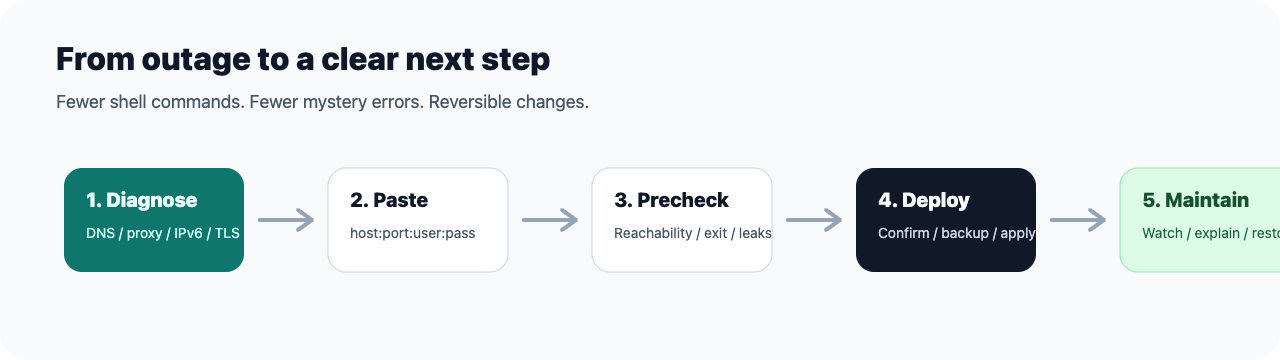
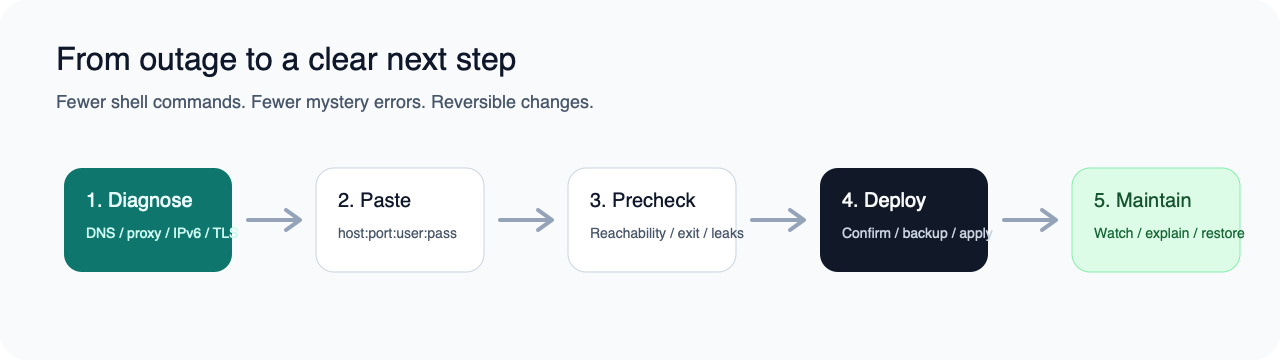
Polish launch trust and GitHub growth surface

diff --git a/tests/test_install_scripts_user_experience.py b/tests/test_install_scripts_user_experience.py
@@ -43,6 +43,8 @@ def test_mac_installer_finished_banner_mentions_app_path_uninstall_and_qa():
     assert "开始使用这台 Mac 上网" in text
     assert "当前出口 IP" in text
     assert "ss://" in text and "vmess://" in text
+    assert "requires macOS 13 or newer" in text
+    assert "--connect-timeout 10 --max-time 600 --retry 2" in text
     # Original safety assertions are still required.
     assert "Will not read or send proxy passwords" in text
 
@@ -66,7 +68,9 @@ def test_chinese_readme_first_screen_states_paste_proxy_and_qa_warning():
     head = text.split("\n", 80)[:80]
     head_text = "\n".join(head)
     # First screen promise (KIMI audit §1.5 requirement).
-    assert "粘贴" in head_text and "让 Mac 安全上网" in head_text
+    assert "粘贴" in head_text and "已有的代理" in head_text
+    assert "当前出口 IP" in head_text
+    assert "macOS 13" in head_text
     # Loud QA warning block.
     assert "未签名" in head_text or "未公证" in head_text
     assert "仍要打开" in head_text

diff --git a/tests/test_open_source_readiness.py b/tests/test_open_source_readiness.py
@@ -79,6 +79,7 @@ def test_github_readme_has_bilingual_visual_assets_and_metadata():
         "docs/github/STAR_GUIDE.md",
         "docs/github/SCREENSHOTS.md",
         "docs/github/RELEASE_NOTES_V0.2.0.md",
+        "cases/INDEX.md",
     ]:
         assert (ROOT / rel).exists()
 
@@ -90,6 +91,9 @@ def test_github_readme_has_bilingual_visual_assets_and_metadata():
     assert "<repo>" not in readme_en
     assert "network-diagnostics" in repository
     assert "mcp-server" in repository
+    assert "homebrew" not in repository
+    assert "cases/INDEX.md" in readme
+    assert "cases/INDEX.md" in readme_en
 
 
 def test_public_docs_do_not_use_author_local_paths_or_pipx_claim():

diff --git a/docs/github/STAR_GUIDE.md b/docs/github/STAR_GUIDE.md
@@ -7,7 +7,7 @@ Stars follow usefulness, not promotion. This file keeps the repository honest, a
 - The README first screen answers four questions in under five seconds:
   1. **What is it?** A local-first macOS network triage tool for AI / dev tools.
   2. **What does it do?** Tells you *which layer* broke (DNS, system proxy, proxy core, IPv6, TLS, target service, or your pasted credentials) before you change anything.
-  3. **How do I install it?** Two one-line commands (App and MCP) are visible above the fold.
+  3. **How do I try it safely?** `--dry-run` is visible before the unsigned QA App install command.
   4. **Is it different from what I already use?** A short comparison table is the first thing under the install buttons.
 
 If any of those four answers is missing or buried below the fold, fix the README before asking for stars.
@@ -17,10 +17,10 @@ If any of those four answers is missing or buried below the fold, fix the README
 Suggested description (already in `.github/repository.yml`):
 
 ```text
-Local-first macOS network triage for AI/dev tools: diagnose DNS, proxy, node, IPv6, TLS, and target service issues before changing config.
+Mac 网络自救工具：Codex、ChatGPT、GitHub 连不上时先定位层级；也能粘贴 HTTP/SOCKS5 代理、预检、部署和回滚。
 ```
 
-Topics are intentionally tuned for 2026 search traffic: `macos`, `apple-silicon`, `swiftui`, `network-diagnostics`, `codex`, `claude`, `cursor`, `kimi`, `mcp`, `model-context-protocol`, `clash`, `mihomo`, `sing-box`.
+Topics are intentionally scoped to supported search entry points: `macos`, `macos-app`, `network-diagnostics`, `diagnostics`, `proxy`, `socks5`, `dns`, `ipv6`, `tls`, `codex`, `chatgpt`, `github`, `claude`, `cursor`, `kimi`, `mcp`, `model-context-protocol`, `mcp-server`, `clash`, `sing-box`.
 
 ## Comparison Snippet (paste into README)
 
@@ -66,6 +66,60 @@ or the saved proxy credentials themselves. Open the Mac app, click once,
 get a plain-English answer. Local-first, no telemetry, no cloud required.
 ```
 
+## Copy-Paste Launch Posts
+
+Use one real case link everywhere:
+
+```text
+https://github.com/baishiqi45-dotcom/netfix/blob/main/cases/2026-06-29-%E6%99%AE%E9%80%9A%E7%94%A8%E6%88%B7%E4%BB%A3%E7%90%86%E9%83%A8%E7%BD%B2%E4%BD%93%E9%AA%8C%E5%AE%A1%E6%9F%A5.md
+```
+
+Show HN title:
+
+```text
+Show HN: Netfix – local-first macOS network triage for AI/dev tool outages
+```
+
+Show HN body:
+
+```text
+I built Netfix after repeatedly seeing “Codex/GitHub/ChatGPT is unreachable” cases where the real issue was not the AI tool: it was DNS, system proxy, a dead proxy core, IPv6, TLS, or bad pasted proxy credentials.
+
+Netfix is a local-first macOS app/CLI. It diagnoses the broken layer, explains the result in plain language, and only changes system proxy settings after explicit confirmation. If you already have HTTP/SOCKS5 proxy credentials, it can precheck, save to Keychain, apply, monitor, and roll back.
+
+Current state: source-first MIT release. The QA DMG is unsigned/not notarized, so it is for technical testers; run --dry-run first. No telemetry, no proxy selling, no built-in nodes.
+```
+
+V2EX / NodeSeek title:
+
+```text
+做了个 macOS 本地网络自救工具：Codex / GitHub 连不上时先判断坏在哪一层，也能粘贴代理参数后预检、部署、回滚
+```
+
+V2EX / NodeSeek body:
+
+```text
+最近一直遇到一种很烦的问题：Mac 上 Codex、ChatGPT、GitHub 或 API 客户端突然连不上，普通用户看不出来是 DNS、系统代理、代理核心、IPv6、TLS、目标服务，还是自己粘贴的代理参数错了。
+
+我做了一个开源小工具 Netfix。它的目标不是卖代理，也不是替代 Clash/Surge，而是在改系统配置前先诊断：哪一层坏了、下一步该点什么、改坏了怎么恢复。
+
+如果你已经有 HTTP/SOCKS5 代理参数，可以在 App 里粘贴 host:port:用户名:密码，先检查能不能连，再保存到 Keychain，最后确认是否让这台 Mac 使用。当前 DMG 还是未签名 QA 版，适合技术测试用户；建议先跑 dry-run 或从源码看。
+
+我最想要的反馈：README 第一屏是否看得懂、安装是否可信、代理参数入口是否清楚、失败提示是否像人话。觉得有用的话也欢迎 star。
+```
+
+Reddit short post:
+
+```text
+I built Netfix, a local-first macOS network triage app for AI/dev tool connectivity issues.
+
+It tries to answer: is Codex/GitHub/ChatGPT failing because of DNS, system proxy, proxy core, IPv6, TLS, the target service, or pasted proxy credentials?
+
+It can also precheck HTTP/SOCKS5 credentials, save them to Keychain, apply system proxy settings only after confirmation, and roll back.
+
+Current state: MIT source-first release. The QA DMG is unsigned/not notarized, so treat it as technical testing and run --dry-run first. No telemetry, no built-in proxy nodes.
+```
+
 ## Trust Claims — safe to assert
 
 - local-first diagnosis (works offline)
@@ -92,6 +146,17 @@ get a plain-English answer. Local-first, no telemetry, no cloud required.
 2. In every post, link to a **single concrete case** (`cases/2026-06-29-普通用户代理部署体验审查.md` is currently the strongest hook).
 3. Do not promise what is not in the release. The current QA DMG is unsigned; say so out loud — credibility earns stars more than polish.
 4. After 30 stars, write a follow-up post showing the **before / after** of a real diagnosis.
+
+## 30-Star Sprint
+
+| Step | Goal | Output |
+|---|---|---|
+| Day 1 | Make the repo trustworthy | GitHub About/topics set, README says unsigned QA plainly, dry-run comes before install |
+| Day 2 | Show one real story | Link the ordinary-user proxy deployment case from README and every launch post |
+| Day 3 | Post once in Chinese | V2EX / NodeSeek post with the same case link and no exaggerated claims |
+| Day 4 | Collect friction | Turn the first 3 confusing comments into README fixes or issues |
+| Day 5 | Post once in English | Reddit or Show HN only after the README first screen is stable |
+| After 30 stars | Earn the follow-up | Publish a before/after diagnosis case and the next signed-DMG roadmap |
 
 ## Before Asking For Stars — verification
 

diff --git a/README.md b/README.md
@@ -2,13 +2,14 @@
 
 [English README](README.en.md)
 
-![Netfix — 粘贴代理，让 Mac 安全上网](assets/github/hero.zh.png)
+![Netfix — 粘贴代理，让 Mac 正确使用已有代理](assets/github/hero.zh.png)
 
 ![license: MIT](https://img.shields.io/badge/license-MIT-green)
 ![platform: macOS](https://img.shields.io/badge/platform-macOS-blue)
-![privacy: 本地优先](https://img.shields.io/badge/privacy-local--first-0f766e)
+![privacy: 本地优先](https://img.shields.io/badge/privacy-%E6%9C%AC%E5%9C%B0%E4%BC%98%E5%85%88-0f766e)
+![agent: MCP 就绪](https://img.shields.io/badge/agent-MCP%20ready-111827)
 
-> **买了代理不会配？粘贴一行，让 Mac 安全上网。**
+> **买了代理不会配？粘贴一行，让 Mac 正确使用你已有的代理。**
 
 Netfix 是 macOS 上的本地网络诊断与配置助手：把你从代理服务商后台复制来的连接信息贴进来，它会先检测能不能用，再保存到本机密码库，最后由你确认是否让这台 Mac 开始使用。改之前自动备份，不用时一键回滚。
 
@@ -18,20 +19,24 @@ Netfix 是 macOS 上的本地网络诊断与配置助手：把你从代理服务
 
 ## ⚠️ 当前版本说明
 
-这是 **v0.2.0-qa.1 预览版**，DMG 还没有完成 Apple Developer ID 签名和公证。普通用户首次打开时，macOS 可能会提示“无法验证开发者”。请在 **系统设置 → 隐私与安全性** 里点击 **仍要打开**。
+这是 **v0.2.0-qa.1 预览版**，DMG 还没有完成 Apple Developer ID 签名和公证。首次打开时，macOS 可能会提示“无法验证开发者”。请在 **系统设置 → 隐私与安全性** 里点击 **仍要打开**。现在适合技术测试用户试用；正式面向普通用户还需要 Developer ID 签名和公证。
+
+你需要准备的是代理服务后台里的 **HTTP/SOCKS5 连接参数**，例如 `host:port:用户名:密码`。不要复制“当前出口 IP”；它只是检测结果，不能拿来连接。Netfix 不是 Clash 客户端，不解析订阅；`ss://`、`vmess://`、Clash/sing-box 订阅链接暂不支持，请到服务商后台找 host、port、用户名、密码。
+
+系统要求：macOS 13 或更新版本；Apple Silicon / Intel Mac 都可试；修改系统代理时 macOS 可能会要求输入本机密码；可选 MCP 接入需要本机有 `python3`。
 
 ```bash
-# 普通用户复制这一行：安装 Netfix.app（QA 版本，未签名）
-curl -fsSL https://raw.githubusercontent.com/baishiqi45-dotcom/netfix/main/scripts/install_mac_app_from_github.sh | bash
-
-# 只预览会做什么，不安装
+# 先看脚本会做什么，不安装、不改配置
 curl -fsSL https://raw.githubusercontent.com/baishiqi45-dotcom/netfix/main/scripts/install_mac_app_from_github.sh | bash -s -- --dry-run
+
+# 技术测试用户安装 Netfix.app（QA 版本，未签名）
+curl -fsSL https://raw.githubusercontent.com/baishiqi45-dotcom/netfix/main/scripts/install_mac_app_from_github.sh | bash
 
 # 卸载本机 App 和 Codex MCP 注册
 curl -fsSL https://raw.githubusercontent.com/baishiqi45-dotcom/netfix/main/scripts/install_mac_app_from_github.sh | bash -s -- --uninstall
 ```
 
-安装脚本会把 App 放到 `~/Applications/Netfix.app`，打开 App，并在本机有 Codex CLI 时顺手注册 MCP。脚本最后还会打印 Kimi / Claude Desktop / Cursor / MiniMax-compatible 本地智能体可复制的 MCP stdio 配置。如果你只想看源码或不想用 App：
+安装脚本会把 App 放到 `~/Applications/Netfix.app`，打开 App，并在本机有 Codex CLI 时注册 MCP。脚本最后还会打印 Kimi / Claude Desktop / Cursor / MiniMax-compatible 本地智能体可复制的 MCP stdio 配置。如果你只想看源码或不想用 App：
 
 ```bash
 pip install -e .
@@ -40,9 +45,9 @@ python3 netfix.py codex --json
 
 ---
 
-## 三步让 Mac 上网
+## 三步把已有代理部署到 Mac
 
-1. **复制**：去你的代理服务后台，复制一整行连接参数。
+1. **复制**：去你的代理服务后台，复制一整行 HTTP/SOCKS5 连接参数。
 2. **粘贴**：在 Netfix 里粘贴，点「检查并保存到这台 Mac」。
 3. **确认**：检查通过后，点「开始使用这台 Mac 上网」。Netfix 会先备份当前网络设置，再应用代理。
 
@@ -130,13 +135,13 @@ python3 netfix.py codex --json
 
 当前仓库优先保证源码开源、可审计、可本地运行。公开签名 `.dmg` 还没有完成 Developer ID 签名和公证，所以不要把本地候选包宣传成正式下载版。
 
-### 普通用户：装 App
+### 技术测试用户：装 QA App
 
 ```bash
 curl -fsSL https://raw.githubusercontent.com/baishiqi45-dotcom/netfix/main/scripts/install_mac_app_from_github.sh | bash
 ```
 
-这条命令会下载 DMG、校验 SHA256、安装 `Netfix.app` 到 `~/Applications`、打开 App、烟测 App 内置 MCP；如果本机有 Codex CLI，会顺手注册 Netfix MCP；如果是 Kimi / Claude / Cursor / MiniMax-compatible 本地智能体，脚本会打印可复制的 stdio 配置。当前 QA DMG 还没有 Developer ID 签名和公证，所以现在能做到"技术用户一行安装"，还不能包装成"普通小白稳定可用的正式安装命令"。
+这条命令会下载 DMG、校验 SHA256、安装 `Netfix.app` 到 `~/Applications`、打开 App、烟测 App 内置 MCP；如果本机有 Codex CLI，会注册 Netfix MCP；如果是 Kimi / Claude / Cursor / MiniMax-compatible 本地智能体，脚本会打印可复制的 stdio 配置。当前 QA DMG 还没有 Developer ID 签名和公证，所以现在能做到"技术测试用户一行安装"，还不能包装成"普通小白稳定可用的正式安装命令"。
 
 安装后如果找不到 App：它放在你的用户应用程序文件夹 `~/Applications/Netfix.app`，可以按 `⌘ + 空格` 搜索 `Netfix` 打开。
 
@@ -171,11 +176,12 @@ open .build/Netfix.app
 
 ## 真实 case 速览
 
-`cases/` 目录里都是脱敏后的真实场景，README 摘要几条最有共鸣的：
+`cases/` 目录里都是脱敏后的真实场景，入口见 [Case Index](cases/INDEX.md)。最适合第一次了解 Netfix 的故事是：[普通用户第一次部署代理的 9 个坑](cases/2026-06-29-普通用户代理部署体验审查.md)。它解释了为什么 Netfix 把流程做成“粘贴参数 → 预检 → 部署 → 回滚”，而不是让用户自己猜系统代理、IPv6、出口 IP 和密码保存位置。
 
-- **「Codex 报连不上，其实是 API Key 失效」** — 见 `cases/20260617-1405-codex-reachable-needs-key.md`。网络层一切正常，Netfix 会指出根因不在你这边。
-- **「普通用户第一次部署代理的 9 个坑」** — 见 `cases/2026-06-29-普通用户代理部署体验审查.md`。粘贴参数 → 预检 → 部署 → 回滚的完整人话流程。
-- **「健康基线快照」** — 见 `cases/2026-06-17-healthy-baseline.md`。问题解决前后做对照，作为以后同类故障的快速比对模板。
+另外几条有代表性的 case：
+
+- **[Codex 报连不上，其实是 API Key 失效](cases/20260617-1405-codex-reachable-needs-key.md)**：网络层一切正常，Netfix 会指出根因不在你这边。
+- **[健康基线快照](cases/2026-06-17-healthy-baseline.md)**：问题解决前后做对照，作为以后同类故障的快速比对模板。
 
 新 case 欢迎按 `cases/TEMPLATE.md` 提交，PR 前请读 [CONTRIBUTING.md](CONTRIBUTING.md) 和 [SECURITY.md](SECURITY.md)。
 
@@ -343,6 +349,10 @@ netfix/
 ├── assets/github/         GitHub 中英双语视觉资产
 └── docs/github/           GitHub 发布、截图、运营说明
 ```
+
+---
+
+如果 Netfix 帮你定位过一次 Mac 网络问题，欢迎点右上角 Star。这样你能看到签名版、截图/GIF 和新 case 的后续进展。
 
 ---
 

diff --git a/README.en.md b/README.en.md
@@ -20,14 +20,18 @@ No API key is required. If you do configure one, the model only ever sees an on-
 
 ## Get started in 60 seconds
 
-> ⚠️ The current DMG is the **v0.2.0-qa.1 preview build, unsigned and not notarized**. On first launch, macOS will block it; open System Settings → Privacy & Security → Open Anyway. Do not market this QA build as an official external release.
+> ⚠️ The current DMG is the **v0.2.0-qa.1 preview build, unsigned and not notarized**. On first launch, macOS will block it; open System Settings → Privacy & Security → Open Anyway. This is suitable for technical testing, not a finished non-technical public installer.
+
+Prepare the HTTP/SOCKS5 connection parameters from your proxy provider dashboard, such as `host:port:username:password`. Do not paste the current exit IP from an IP lookup page; that is only a result, not a connection string. Netfix is not a Clash client and does not import subscriptions; `ss://`, `vmess://`, and Clash/sing-box subscription links are not supported yet.
+
+Requirements: macOS 13 or newer; Apple Silicon and Intel Macs are both in scope; macOS may ask for your local password when system proxy settings are changed; optional MCP setup needs `python3`.
 
 ```bash
-# Most users copy this line: install Netfix.app (QA build, unsigned; first launch: System Settings → Privacy & Security → Open Anyway)
-curl -fsSL https://raw.githubusercontent.com/baishiqi45-dotcom/netfix/main/scripts/install_mac_app_from_github.sh | bash
-
-# Preview installer actions without installing
+# Preview installer actions without installing or changing configuration
 curl -fsSL https://raw.githubusercontent.com/baishiqi45-dotcom/netfix/main/scripts/install_mac_app_from_github.sh | bash -s -- --dry-run
+
+# Technical testers: install Netfix.app (QA build, unsigned)
+curl -fsSL https://raw.githubusercontent.com/baishiqi45-dotcom/netfix/main/scripts/install_mac_app_from_github.sh | bash
 
 # Uninstall the local app and Codex MCP registration
 curl -fsSL https://raw.githubusercontent.com/baishiqi45-dotcom/netfix/main/scripts/install_mac_app_from_github.sh | bash -s -- --uninstall
@@ -103,11 +107,12 @@ The intended user entry is `Netfix.app`: double-click, let the app start the loc
 
 ## Real cases
 
-`cases/` holds sanitized real scenarios. A few worth quoting in the README:
+`cases/` holds sanitized real scenarios; start from the [Case Index](cases/INDEX.md). The best first story is [9 pitfalls for a non-technical user deploying their first proxy](cases/2026-06-29-普通用户代理部署体验审查.md). It explains why Netfix is shaped as paste → precheck → deploy → rollback, instead of making users guess system proxy settings, IPv6 behavior, exit IPs, and password storage.
 
-- **"Codex reports unreachable — turns out the API key expired"** — `cases/20260617-1405-codex-reachable-needs-key.md`. The network was fine; Netfix points away from the wrong suspect.
-- **"9 pitfalls for a non-technical user deploying their first proxy"** — `cases/2026-06-29-普通用户代理部署体验审查.md`. Paste → precheck → deploy → rollback, in plain language.
-- **"Healthy baseline snapshot"** — `cases/2026-06-17-healthy-baseline.md`. Before/after comparison for fast triage next time.
+A few more worth quoting:
+
+- **[Codex reports unreachable — turns out the API key expired](cases/20260617-1405-codex-reachable-needs-key.md)**: The network was fine; Netfix points away from the wrong suspect.
+- **[Healthy baseline snapshot](cases/2026-06-17-healthy-baseline.md)**: Before/after comparison for fast triage next time.
 
 New cases welcome. Use `cases/TEMPLATE.md`, read [CONTRIBUTING.md](CONTRIBUTING.md) and [SECURITY.md](SECURITY.md) before opening a PR.
 
@@ -255,6 +260,8 @@ netfix/
 ├── assets/github/         Chinese and English GitHub visuals
 └── docs/github/           GitHub release and screenshot notes
 ```
+
+If Netfix helped you identify a Mac network problem, starring the repo is the easiest way to follow the signed build, screenshots/GIFs, and new cases.
 
 ## License
 

diff --git a/cases/INDEX.md b/cases/INDEX.md
@@ -1,0 +1,25 @@
+# Netfix Case Index
+
+这些 case 都应该是脱敏后的公开材料：不要出现真实代理、API Key、cookie、二维码、账号、客户信息或本机私有路径。
+
+## 普通用户代理部署
+
+- [普通用户第一次部署代理的 9 个坑](2026-06-29-普通用户代理部署体验审查.md)
+  买了代理但不知道 Mac 上复制什么、粘贴哪里、怎么恢复原网络设置。适合作为 README 和发布帖的主故事。
+
+## AI / 开发工具连不上
+
+- [Codex 报连不上，其实是 API Key 失效](20260617-1405-codex-reachable-needs-key.md)
+  网络层正常，但用户直觉以为是代理问题。Netfix 的价值是把错误层级先分清。
+
+## 基线与复盘
+
+- [健康基线快照](2026-06-17-healthy-baseline.md)
+  网络健康时先留一份脱敏基线，下次故障可以做 before / after 对照。
+
+## Add A New Case
+
+1. 复制 [TEMPLATE.md](TEMPLATE.md)。
+2. 写清触发场景、Netfix 关键输出、根因、实际修复、验证。
+3. 确认没有真实密码、API Key、token、cookie、二维码、完整本机路径或真实代理地址。
+4. 文件名使用 `YYYY-MM-DD-关键词.md`。

diff --git a/docs/github/RELEASE_NOTES_V0.2.0.md b/docs/github/RELEASE_NOTES_V0.2.0.md
@@ -25,7 +25,7 @@ Codex MCP one-line registration:
 curl -fsSL https://raw.githubusercontent.com/baishiqi45-dotcom/netfix/main/scripts/install_codex_mcp_from_github.sh | bash
 ```
 
-Kimi / Claude / Cursor users should use the generic MCP config from the App Settings -> AI Coding Assistant screen or `AGENTS.md`; the one-line installer only auto-registers Codex CLI.
+Kimi / Claude / Cursor / MiniMax-compatible local agents can use the generic MCP stdio config printed by the App installer, or copy it later from *Settings → AI Coding Assistant*. The installer only auto-registers Codex CLI when `codex` is available.
 
 Source build:
 
@@ -40,6 +40,23 @@ python3 netfix.py codex --json
 - No Linux / Windows support. Netfix shells out to macOS-only tooling (`scutil`, `networksetup`, `dscacheutil`, `security`).
 - No built-in proxy providers, no node list, no account bypass tools. Netfix only parses, prechecks, stores, deploys, monitors, and restores credentials **you already have**.
 - No automated image-text redaction inside screenshots. If you upload a screenshot to the optional AI, visible text in the image is on you to sanitize first.
+
+## Proof you can check
+
+- Real user story: [ordinary-user proxy deployment review](../../cases/2026-06-29-普通用户代理部署体验审查.md). This is the strongest explanation of why the product flow is paste → precheck → deploy → rollback.
+- Installer dry run:
+
+```bash
+curl -fsSL https://raw.githubusercontent.com/baishiqi45-dotcom/netfix/main/scripts/install_mac_app_from_github.sh | bash -s -- --dry-run
+```
+
+- Local CLI smoke:
+
+```bash
+python3 netfix.py codex --json
+```
+
+The output is structured JSON. Agents should read `diagnostics`, `root_causes`, `fixes`, and `manual_steps`; users should not paste raw reports with secrets into public issues.
 
 ## Known limits
 